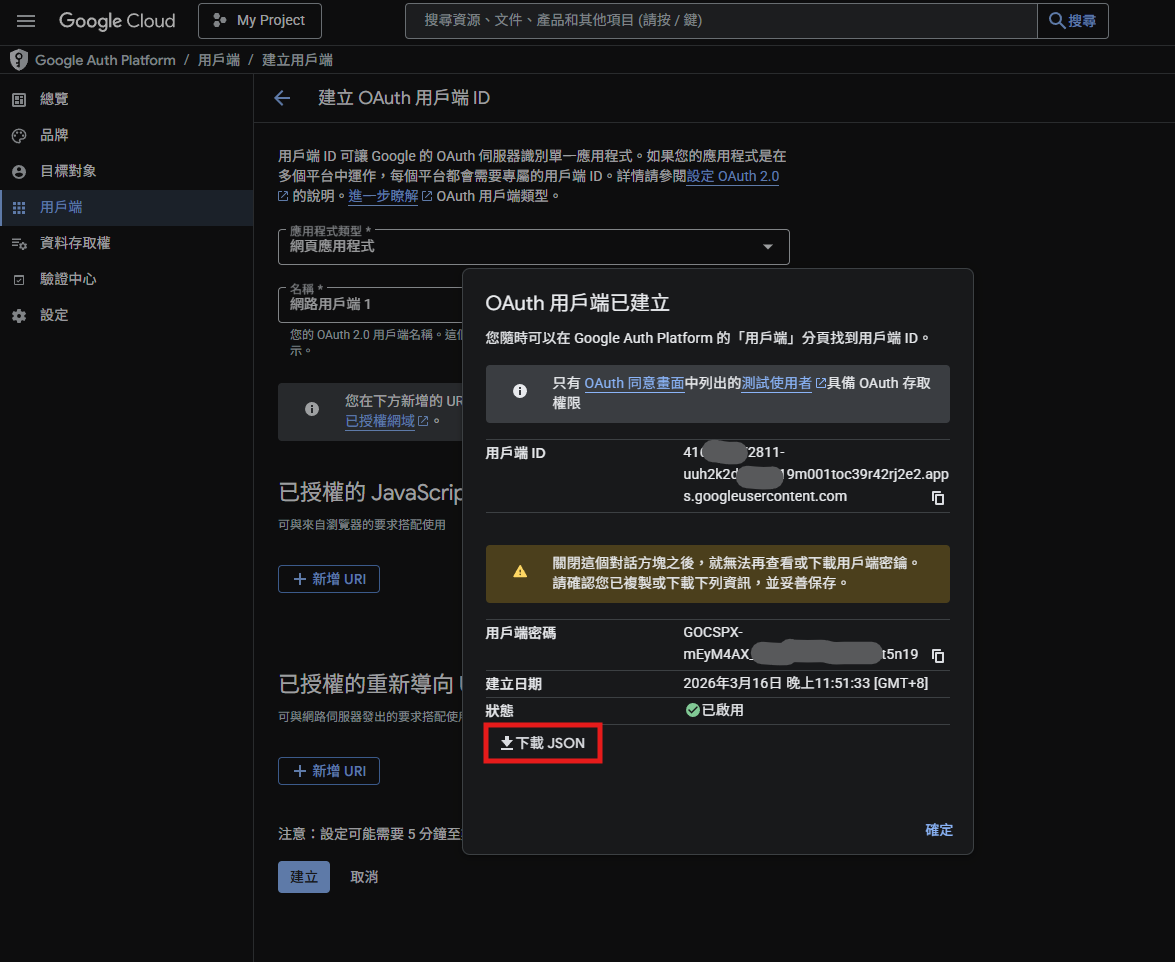
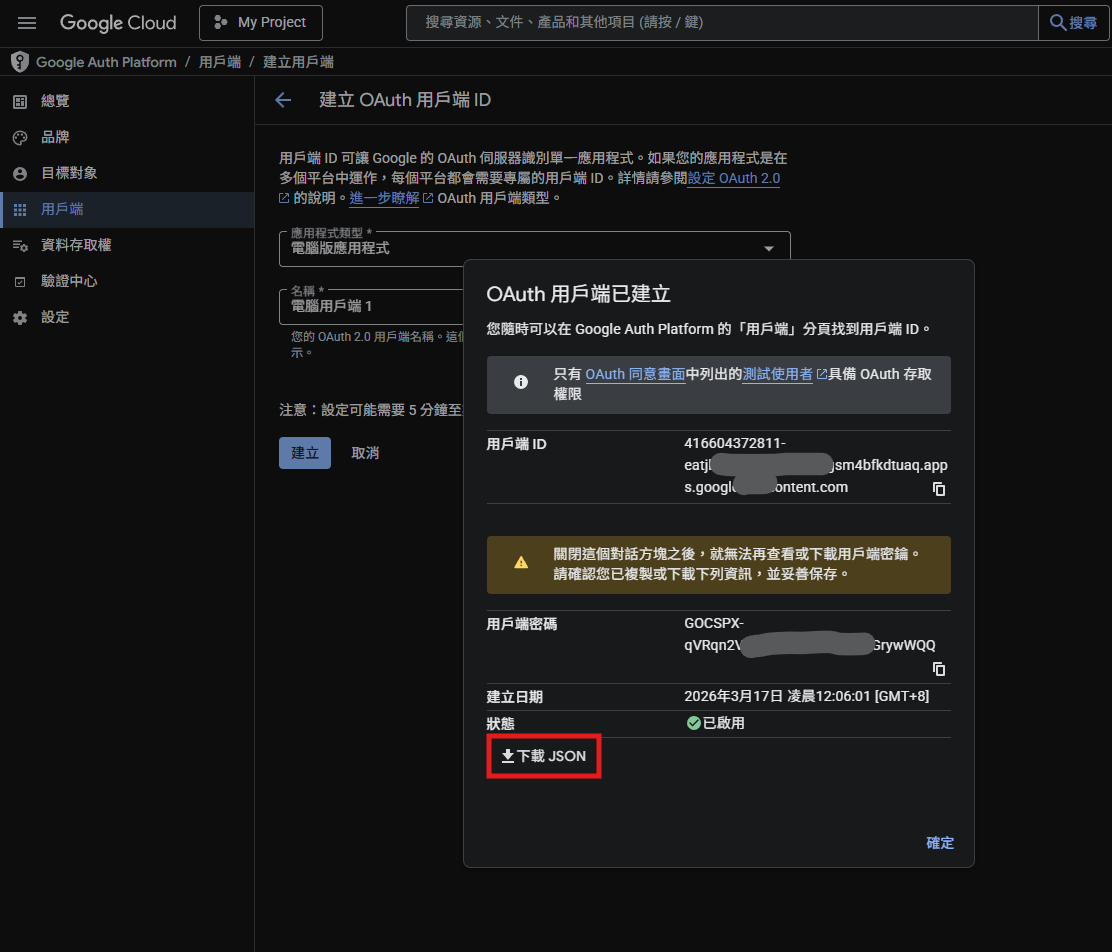
docs(google): update API setup instructions and images

diff --git a/2.金鑰取得/3.Google/文件.md b/2.金鑰取得/3.Google/文件.md
@@ -48,6 +48,10 @@
 
 ![alt text](image-10.png)
 
+7. 目標對象 > 新增測試使用者 > 輸入自己的信箱 > 儲存
+
+![alt text](image-15.png)
+
 ## 第三步：建立憑證
 
 1. 點擊左上角三條線選單
@@ -62,7 +66,7 @@
 
 ![alt text](image-12.png)
 
-4. 選擇「Web 應用程式」，點擊建立。
+4. 選擇「電腦版應用程式」，點擊建立。
 
 ![alt text](image-13.png)
 
